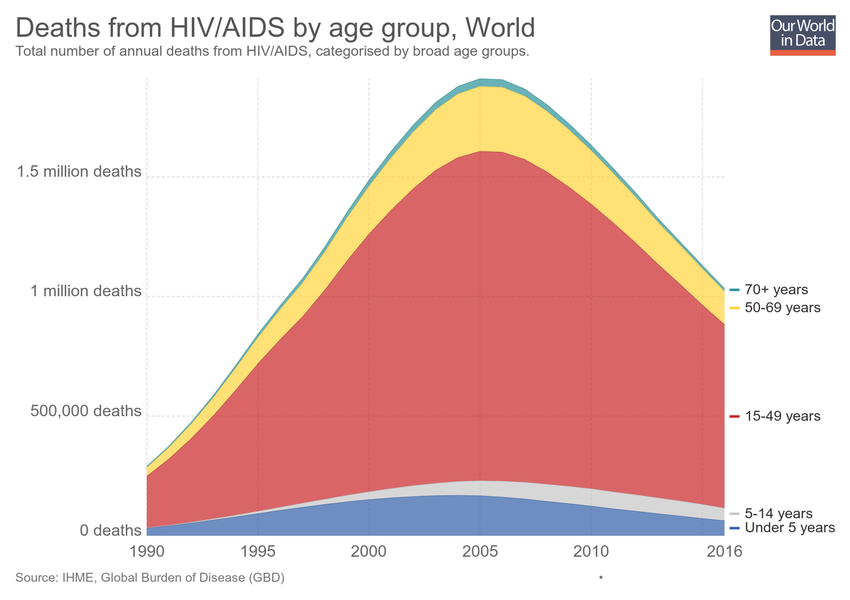
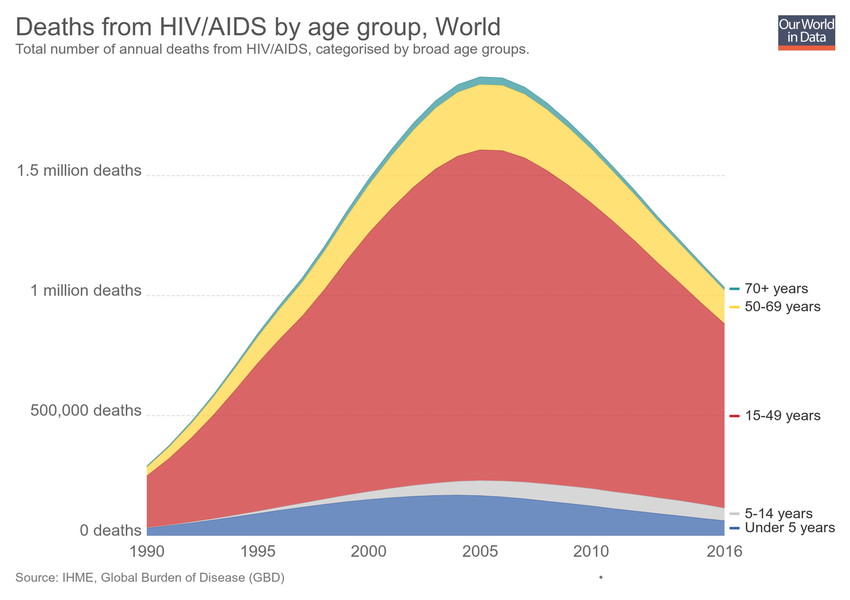
Updating chart deaths-from-hiv-by-age

diff --git a/grapher/deaths-from-hiv-by-age.html b/grapher/deaths-from-hiv-by-age.html
@@ -1,4 +1,4 @@
-<!doctype html><html><head><meta name="viewport" content="width=device-width, initial-scale=1" /><title>Deaths from HIV/AIDS by age group - Our World in Data</title><meta name="description" content="Total number of annual deaths from HIV/AIDS, categorised by broad age groups." /><link rel="canonical" href="https://ourworldindata.org/grapher/deaths-from-hiv-by-age" /><meta property="fb:app_id" content="1149943818390250" /><meta property="og:url" content="https://ourworldindata.org/grapher/deaths-from-hiv-by-age" /><meta property="og:title" content="Deaths from HIV/AIDS by age group" /><meta property="og:description" content="Total number of annual deaths from HIV/AIDS, categorised by broad age groups." /><meta property="og:image" content="https://ourworldindata.org/grapher/exports/deaths-from-hiv-by-age.png?v=2" /><meta property="og:image:width" content="850" /><meta property="og:image:height" content="600" /><meta property="og:site_name" content="Our World in Data" /><meta name="twitter:card" content="summary_large_image" /><meta name="twitter:site" content="@OurWorldInData" /><meta name="twitter:creator" content="@OurWorldInData" /><meta name="twitter:title" content="Deaths from HIV/AIDS by age group" /><meta name="twitter:description" content="Total number of annual deaths from HIV/AIDS, categorised by broad age groups." /><meta name="twitter:image" content="https://ourworldindata.org/grapher/exports/deaths-from-hiv-by-age.png?v=2" /><style>
+<!doctype html><html><head><meta name="viewport" content="width=device-width, initial-scale=1" /><title>Deaths from HIV/AIDS by age group - Our World in Data</title><meta name="description" content="Total number of annual deaths from HIV/AIDS, categorised by broad age groups." /><link rel="canonical" href="https://ourworldindata.org/grapher/deaths-from-hiv-by-age" /><meta property="fb:app_id" content="1149943818390250" /><meta property="og:url" content="https://ourworldindata.org/grapher/deaths-from-hiv-by-age" /><meta property="og:title" content="Deaths from HIV/AIDS by age group" /><meta property="og:description" content="Total number of annual deaths from HIV/AIDS, categorised by broad age groups." /><meta property="og:image" content="https://ourworldindata.org/grapher/exports/deaths-from-hiv-by-age.png?v=3" /><meta property="og:image:width" content="850" /><meta property="og:image:height" content="600" /><meta property="og:site_name" content="Our World in Data" /><meta name="twitter:card" content="summary_large_image" /><meta name="twitter:site" content="@OurWorldInData" /><meta name="twitter:creator" content="@OurWorldInData" /><meta name="twitter:title" content="Deaths from HIV/AIDS by age group" /><meta name="twitter:description" content="Total number of annual deaths from HIV/AIDS, categorised by broad age groups." /><meta name="twitter:image" content="https://ourworldindata.org/grapher/exports/deaths-from-hiv-by-age.png?v=3" /><style>
         html, body {
             height: 100%;
             margin: 0;
@@ -20,8 +20,8 @@
         }
     </style><noscript><style>
                     figure { display: none !important; }
-                </style></noscript><link rel="stylesheet" href="https://ourworldindata.org/grapher/assets/commons.bundle.019a92548339820130b6.css" /><link rel="preload" href="/grapher/data/variables/57966+57976+57970+57972+57974.json?v=2" as="fetch" crossorigin /></head><body class="singleChart"><figure data-grapher-src="/grapher/deaths-from-hiv-by-age"></figure><noscript id="fallback"><img src="/grapher/exports/deaths-from-hiv-by-age.svg" /><p>Interactive visualization requires JavaScript</p></noscript><script src="https://cdn.polyfill.io/v2/polyfill.min.js?features=es6,fetch"></script><script src="https://ourworldindata.org/grapher/assets/commons.bundle.019a92548339820130b6.js"></script><script src="https://ourworldindata.org/grapher/assets/charts.bundle.dcf65b68eddaba4c6a58.js"></script><script>
-        var jsonConfig = {"id":1687,"map":{"projection":"World","colorSchemeLabels":[],"colorSchemeValues":[],"defaultProjection":"World","colorSchemeMinValue":0,"customNumericColors":[],"customCategoryColors":{},"customCategoryLabels":{},"customHiddenCategories":{}},"tab":"chart","slug":"deaths-from-hiv-by-age","type":"StackedArea","title":"Deaths from HIV/AIDS by age group","xAxis":{"scaleType":"linear"},"yAxis":{"min":0,"scaleType":"linear"},"version":2,"subtitle":"Total number of annual deaths from HIV/AIDS, categorised by broad age groups.","hasMapTab":false,"originUrl":"https://ourworldindata.org/hiv-aids/","stackMode":"absolute","dimensions":[{"display":{"name":"Under 5 years","unit":"deaths","shortUnit":"deaths"},"property":"y","variableId":57966,"numDecimalPlaces":0},{"display":{"name":"70+ years","unit":"deaths","shortUnit":"deaths"},"property":"y","variableId":57976,"numDecimalPlaces":0},{"display":{"name":"5-14 years","unit":"deaths","shortUnit":"deaths"},"property":"y","variableId":57970,"numDecimalPlaces":0},{"display":{"name":"15-49 years","unit":"deaths","shortUnit":"deaths"},"property":"y","variableId":57972,"numDecimalPlaces":0},{"display":{"name":"50-69 years","unit":"deaths","shortUnit":"deaths"},"property":"y","variableId":57974,"numDecimalPlaces":0}],"sourceDesc":"IHME, Global Burden of Disease (GBD)","hasChartTab":true,"isPublished":true,"selectedData":[{"color":"#2a939b","index":1,"entityId":355},{"color":"#ffd53e","index":4,"entityId":355},{"color":"#ca2628","index":3,"entityId":355},{"color":"#c8c8c8","index":2,"entityId":355},{"color":"#3360a9","index":0,"entityId":355}],"internalNotes":"","addCountryMode":"change-country"};
+                </style></noscript><link rel="stylesheet" href="https://ourworldindata.org/grapher/assets/commons.bundle.019a92548339820130b6.css" /><link rel="preload" href="/grapher/data/variables/57966+57976+57970+57972+57974.json?v=3" as="fetch" crossorigin /></head><body class="singleChart"><figure data-grapher-src="/grapher/deaths-from-hiv-by-age"></figure><noscript id="fallback"><img src="/grapher/exports/deaths-from-hiv-by-age.svg" /><p>Interactive visualization requires JavaScript</p></noscript><script src="https://cdn.polyfill.io/v2/polyfill.min.js?features=es6,fetch"></script><script src="https://ourworldindata.org/grapher/assets/commons.bundle.019a92548339820130b6.js"></script><script src="https://ourworldindata.org/grapher/assets/charts.bundle.dcf65b68eddaba4c6a58.js"></script><script>
+        var jsonConfig = {"id":1687,"map":{"projection":"World","colorSchemeLabels":[],"colorSchemeValues":[],"colorSchemeMinValue":0,"customNumericColors":[],"customCategoryColors":{},"customCategoryLabels":{},"customHiddenCategories":{}},"tab":"chart","slug":"deaths-from-hiv-by-age","type":"StackedArea","title":"Deaths from HIV/AIDS by age group","xAxis":{"scaleType":"linear"},"yAxis":{"min":0,"scaleType":"linear"},"version":3,"subtitle":"Total number of annual deaths from HIV/AIDS, categorised by broad age groups.","hasMapTab":false,"originUrl":"https://ourworldindata.org/hiv-aids/","stackMode":"absolute","dimensions":[{"display":{"name":"Under 5 years","unit":"deaths","shortUnit":"deaths","numDecimalPlaces":0},"property":"y","variableId":57966},{"display":{"name":"70+ years","unit":"deaths","shortUnit":"deaths","numDecimalPlaces":0},"property":"y","variableId":57976},{"display":{"name":"5-14 years","unit":"deaths","shortUnit":"deaths","numDecimalPlaces":0},"property":"y","variableId":57970},{"display":{"name":"15-49 years","unit":"deaths","shortUnit":"deaths","numDecimalPlaces":0},"property":"y","variableId":57972},{"display":{"name":"50-69 years","unit":"deaths","shortUnit":"deaths","numDecimalPlaces":0},"property":"y","variableId":57974}],"sourceDesc":"IHME, Global Burden of Disease (GBD)","hasChartTab":true,"isPublished":true,"selectedData":[{"color":"#2a939b","index":1,"entityId":355},{"color":"#ffd53e","index":4,"entityId":355},{"color":"#ca2628","index":3,"entityId":355},{"color":"#c8c8c8","index":2,"entityId":355},{"color":"#3360a9","index":0,"entityId":355}],"internalNotes":"","addCountryMode":"change-country"};
         var figure = document.getElementsByTagName("figure")[0];
         try {
             window.App = {};
